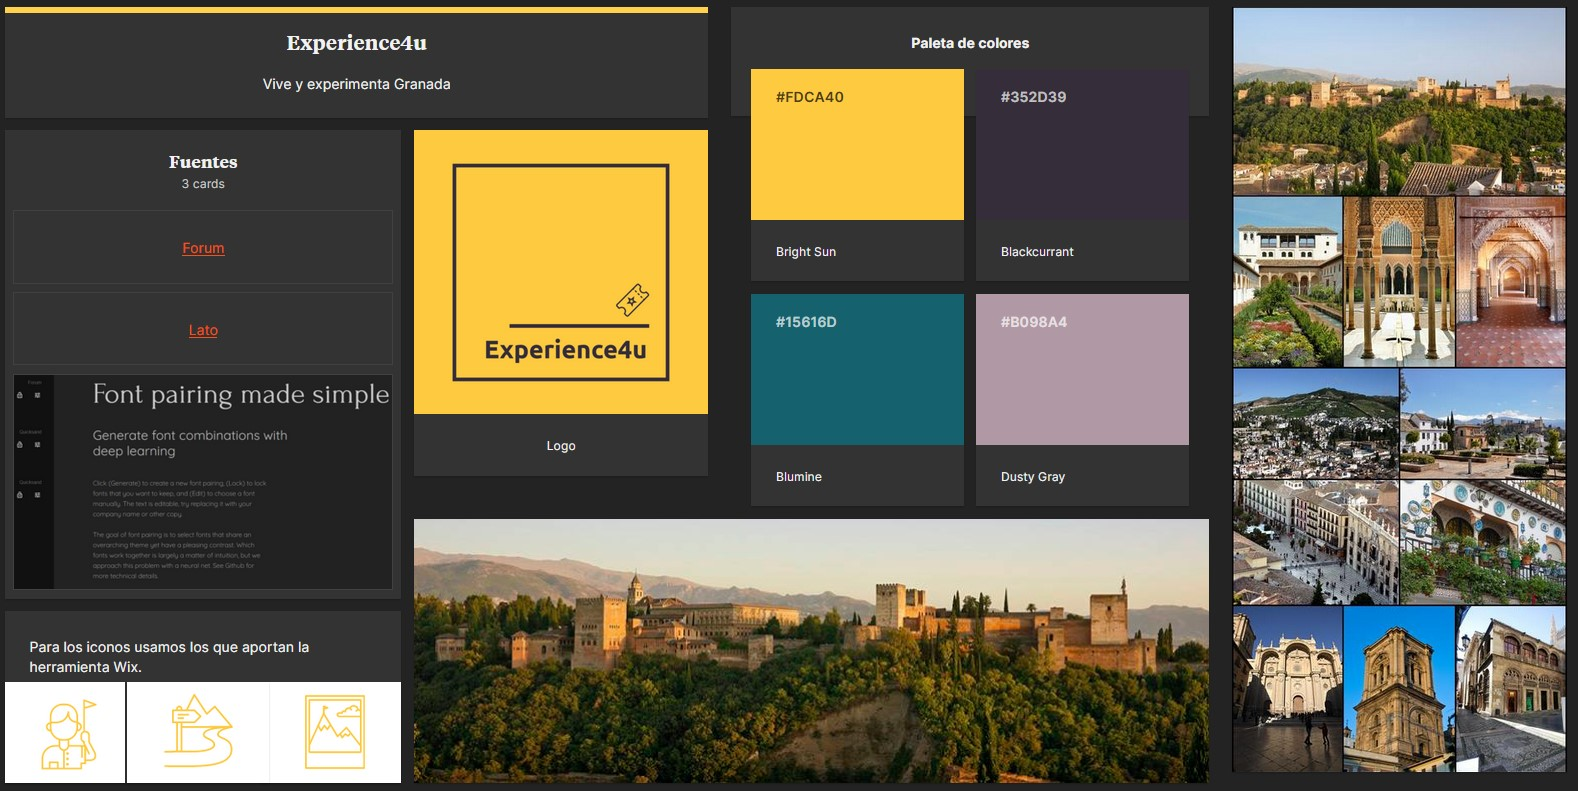
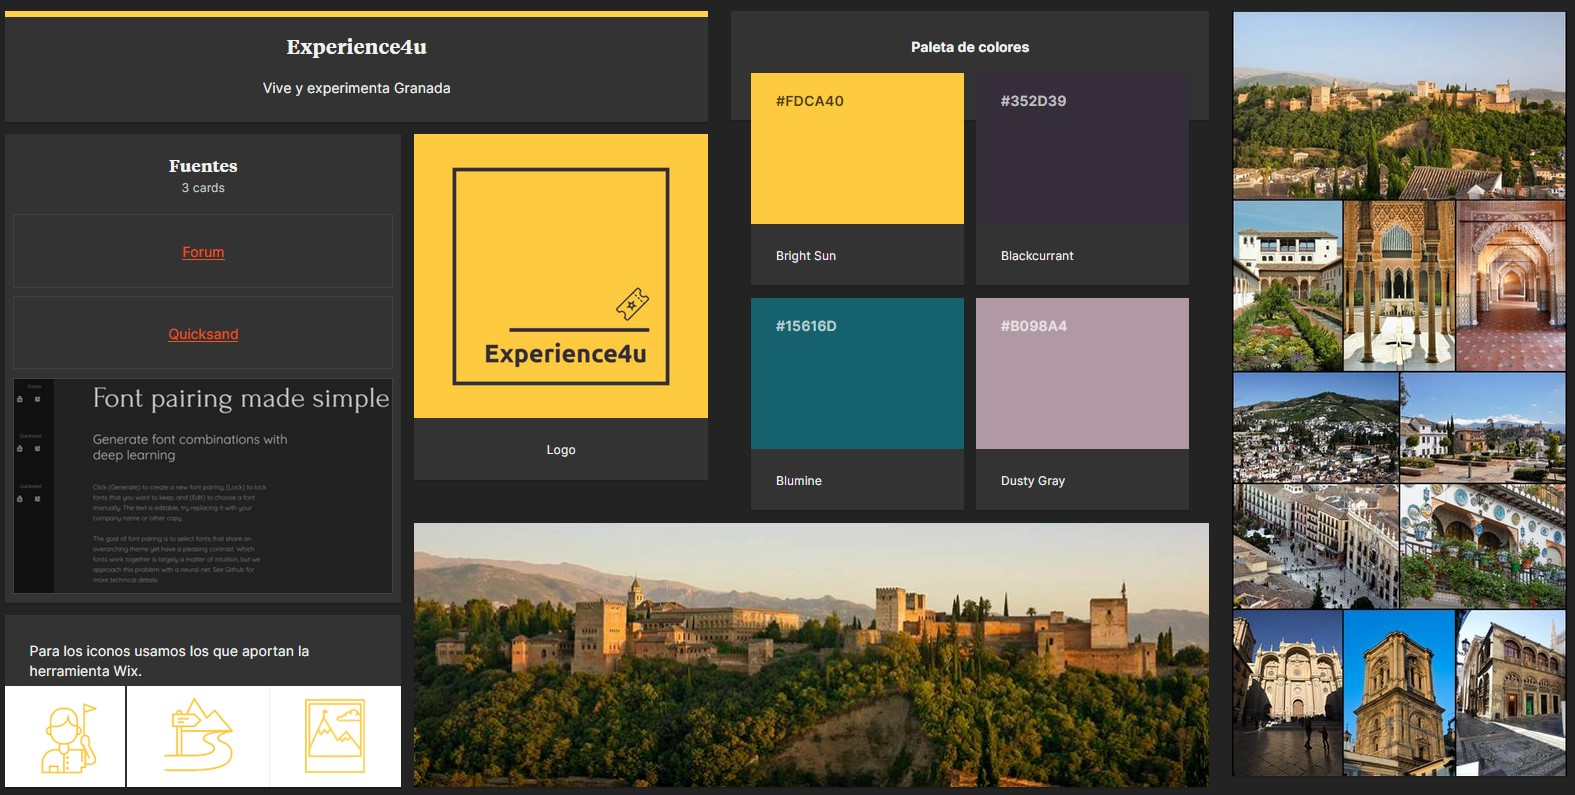
actualizo imagen

diff --git a/README.md b/README.md
@@ -181,6 +181,8 @@ Mediante dicho documento podemos acceder a la página web y redes sociales pulsa
 >>> Estudio de Guidelines y Patrones IU a usar 
 >>> Tras documentarse, muestre las deciones tomadas sobre Patrones IU a usar para la fase siguiente de prototipado. 
 
+Para la tipografía hemos querido elegir unas que sea sencillas, pero a la vez tengan personalidad. Para ello hemos estado mirando en varias páginas, y fimalmente hemos optado por quedarnos con [Forum](https://fonts.google.com/specimen/Forum) para los títulos y con [Quicksand](https://fonts.google.com/specimen/Quicksand) para el texto en general.
+
 ![Método UX](img/mockup.png)  3.d Mockup
 ----
 

diff --git a/P3/readme.md b/P3/readme.md
@@ -19,6 +19,8 @@ Mediante dicho documento podemos acceder a la página web y redes sociales pulsa
 ## Mockup: LAYOUT HI-FI
 
 
+
+
 ## Documentación: Publicación del Case Study
 
 
